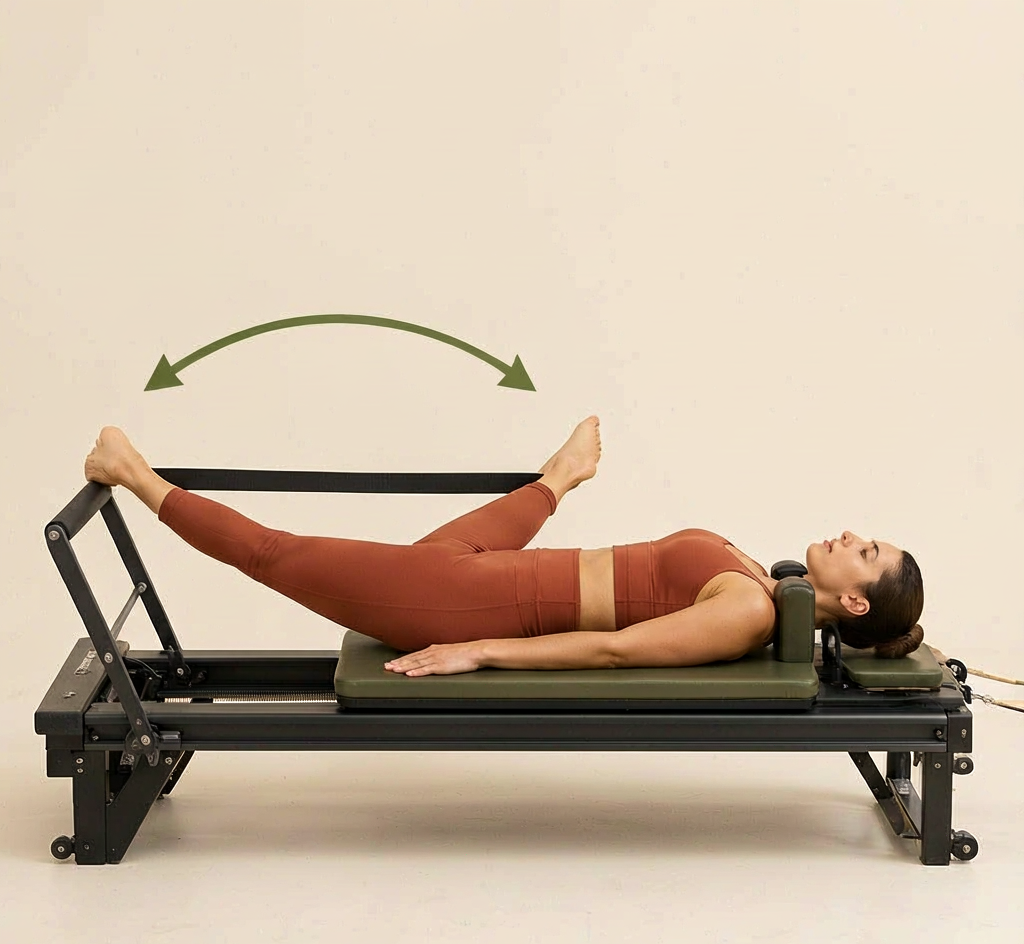
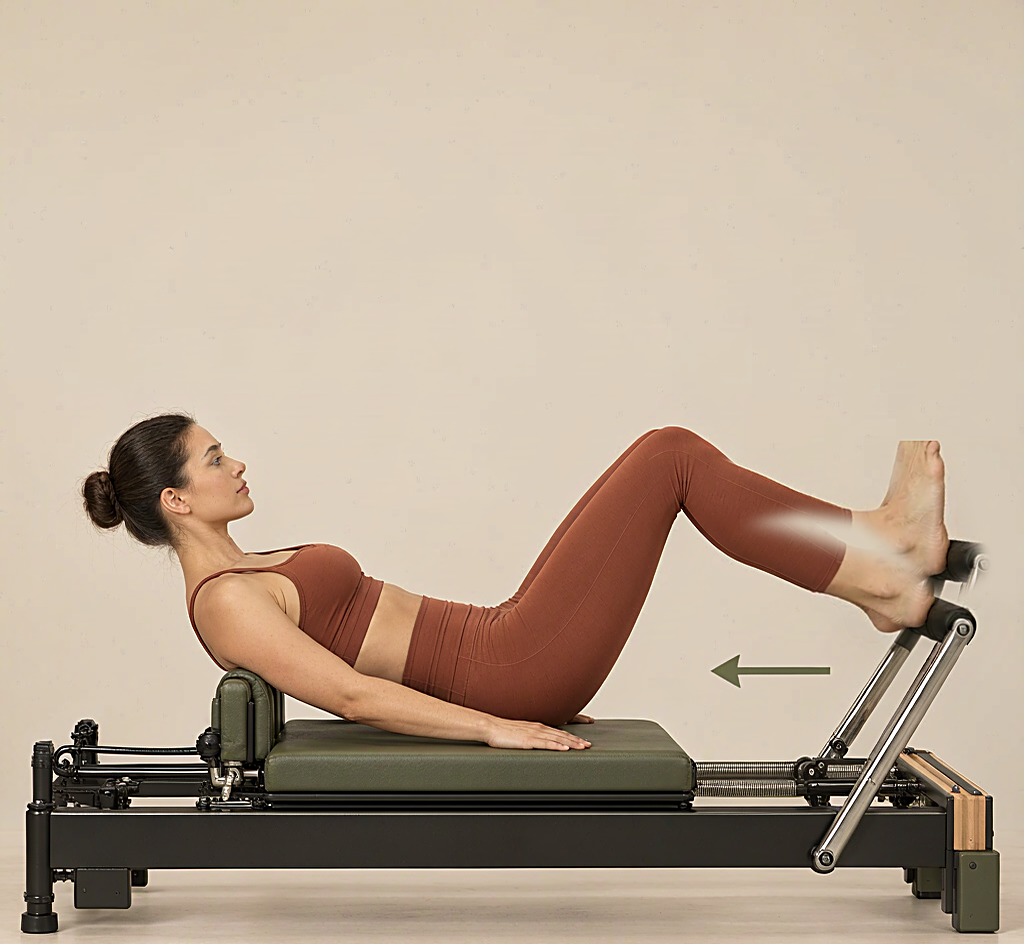
Deploy Wide-V Heels composite B v2

diff --git a/src/App.tsx b/src/App.tsx
@@ -442,7 +442,7 @@ const reformerAlignedImages: Record<string, string> = {
   "Oblique Roll Down": "assets/reformer/123.png?v=1",
   "Single-Leg Footwork Arches": "assets/reformer/124.png?v=2",
   "Wide-V Toes": "assets/reformer/126.png?v=2",
-  "Wide-V Heels": "assets/reformer/127.png?v=1",
+  "Wide-V Heels": "assets/reformer/127.png?v=2",
   "Supine Arm Press Down": "assets/reformer/128.png?v=1",
   "Supine Arm Circles": "assets/reformer/129.png?v=2",
   "Supine Triceps Press": "assets/reformer/130.png?v=1",
